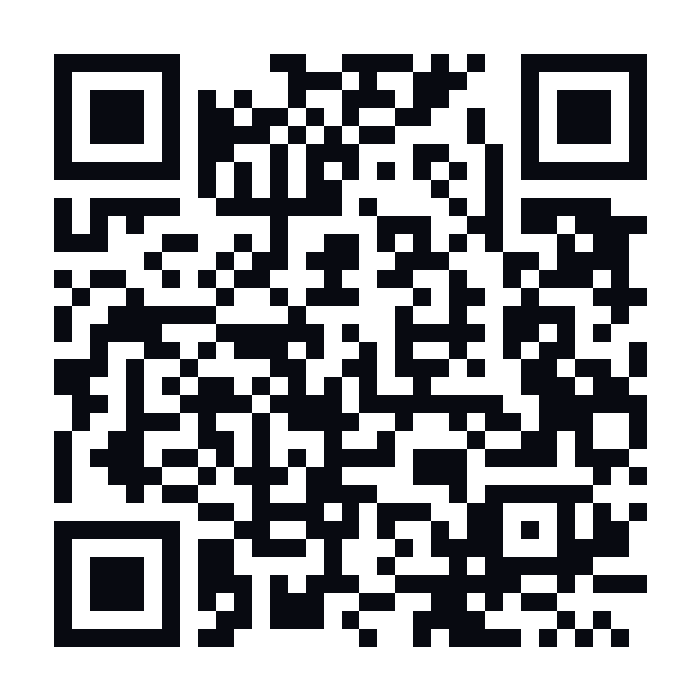
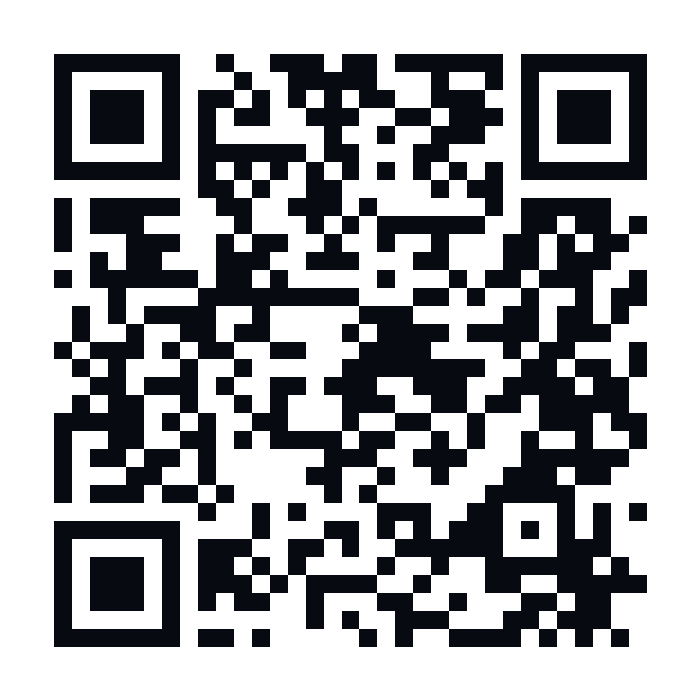
Point QR code to public GitHub Pages game

diff --git a/index.html b/index.html
@@ -3,13 +3,13 @@
   <head>
     <meta charset="UTF-8" />
     <meta name="viewport" content="width=device-width, initial-scale=1.0, viewport-fit=cover" />
-    <meta name="theme-color" content="#101b19" />
-    <meta name="description" content="휴대폰과 PC에서 즐기는 3D 학교 방탈출 게임" />
-    <meta property="og:title" content="마지막 종례 | 3D 학교 방탈출" />
-    <meta property="og:description" content="교실의 단서를 찾고 추격전을 피해 학교를 탈출하세요." />
+    <meta name="theme-color" content="#080a11" />
+    <meta name="description" content="색색의 기둥과 유리벽 사이를 달려 투명 유리문으로 탈출하는 모바일 추격 게임" />
+    <meta property="og:title" content="GLASS RUN 01 | 유리 복도 추격전" />
+    <meta property="og:description" content="유리벽을 피해 200m 복도 끝 투명문까지 달려라." />
     <meta property="og:image" content="./og.png" />
     <link rel="icon" href="./favicon.svg" />
-    <title>마지막 종례 | 3D 학교 방탈출</title>
+    <title>GLASS RUN 01 | 유리 복도 추격전</title>
   </head>
   <body>
     <div id="root"></div>
